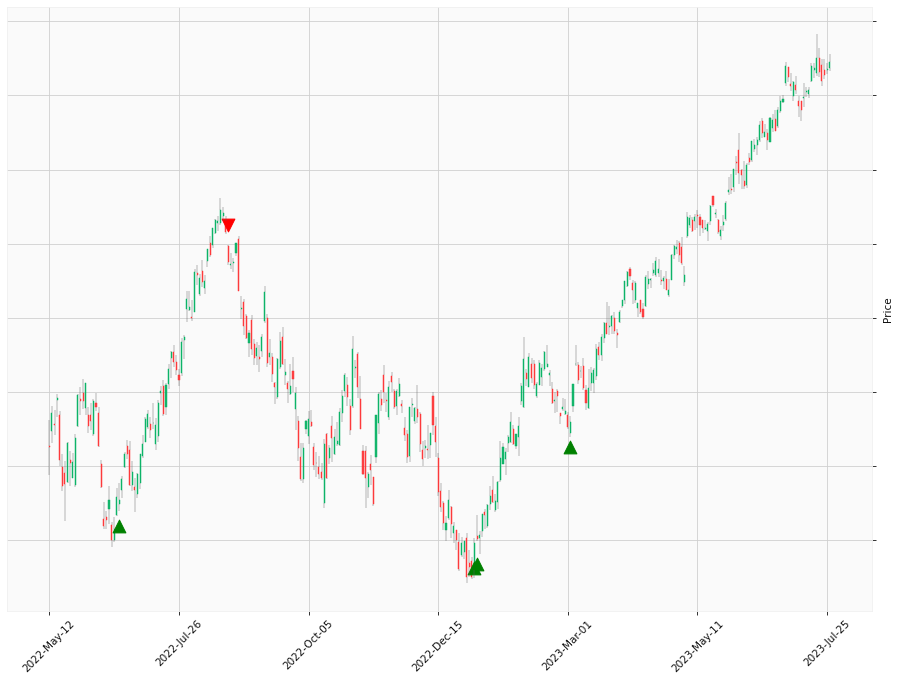
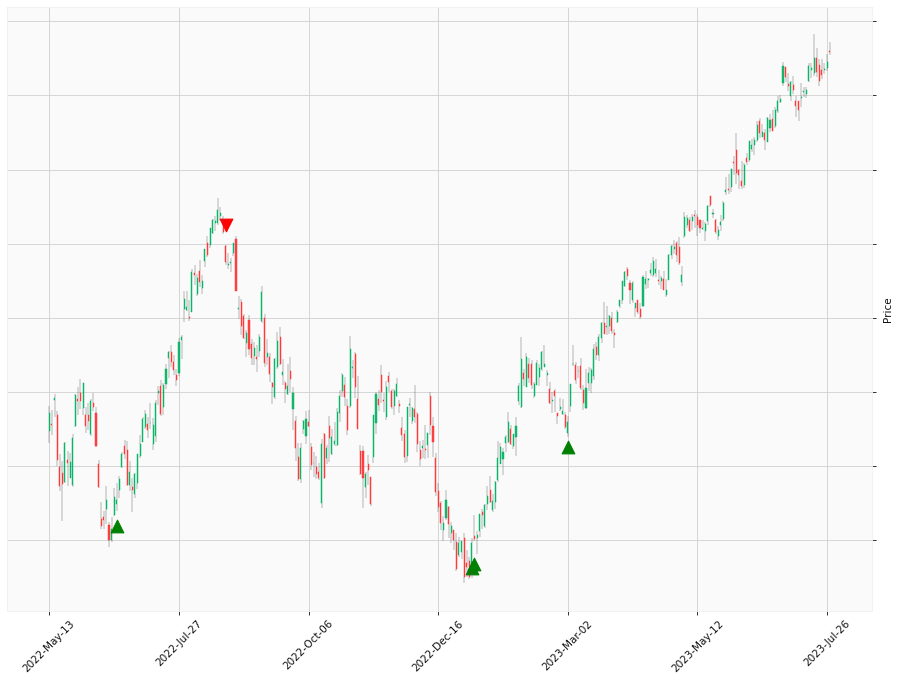
See https://github.com/HappyLabz/HappyLabz_v1/commit/a32d4daa571c89d06b2637af87136d21fd2545b4 from refs/heads/main

diff --git a/TSLA.md b/TSLA.md
@@ -104,9 +104,9 @@
         <td>9</td>
         <td>Short</td>
         <td>Jun 23 2023 Close</td>
-        <td>3.06 %</td>
-        <td>217.66 %</td>
-        <td>475.69 %</td>
+        <td>3.67 %</td>
+        <td>217.05 %</td>
+        <td>472.06 %</td>
     </tr>
     
 </table>
@@ -122,23 +122,23 @@
     <tbody>
         <tr>
             <td>TSLA (Buy and Hold)</td>
-            <td>2022-05-26 Close <b>-</b> 2023-07-26 Close</td>
-            <td>12.10 %</td>
+            <td>2022-05-26 Close <b>-</b> 2023-07-27 Close</td>
+            <td>12.77 %</td>
         </tr>
         <tr>
             <td>TSLA (HLT Cumulative % Gain)</td>
-            <td>2022-05-26 Close <b>-</b> 2023-07-26 Close</td>
-            <td>217.66 %</td>
+            <td>2022-05-26 Close <b>-</b> 2023-07-27 Close</td>
+            <td>217.05 %</td>
         </tr>
         <tr>
             <td>TSLA (HLT Reinvested % Gain)</td>
-            <td>2022-05-26 Close <b>-</b> 2023-07-26 Close</td>
-            <td>475.69 %</td>
+            <td>2022-05-26 Close <b>-</b> 2023-07-27 Close</td>
+            <td>472.06 %</td>
         </tr>
         <tr>
             <td>S&P 500 (Buy and Hold)</td>
-            <td>2022-05-26 Close <b>-</b> 2023-07-26 Close</td>
-            <td>12.39 %</td>
+            <td>2022-05-26 Close <b>-</b> 2023-07-27 Close</td>
+            <td>12.88 %</td>
         </tr>
     </tbody>
 </table>

diff --git a/AAPL.md b/AAPL.md
@@ -72,9 +72,9 @@
         <td>5</td>
         <td>Long</td>
         <td>Mar 02 2023 Close</td>
-        <td>33.32 %</td>
-        <td>92.29 %</td>
-        <td>127.87 %</td>
+        <td>34.23 %</td>
+        <td>93.20 %</td>
+        <td>129.44 %</td>
     </tr>
     
 </table>
@@ -90,23 +90,23 @@
     <tbody>
         <tr>
             <td>AAPL (Buy and Hold)</td>
-            <td>2022-06-22 Close <b>-</b> 2023-07-26 Close</td>
-            <td>43.72 %</td>
+            <td>2022-06-22 Close <b>-</b> 2023-07-27 Close</td>
+            <td>44.71 %</td>
         </tr>
         <tr>
             <td>AAPL (HLT Cumulative % Gain)</td>
-            <td>2022-06-22 Close <b>-</b> 2023-07-26 Close</td>
-            <td>92.29 %</td>
+            <td>2022-06-22 Close <b>-</b> 2023-07-27 Close</td>
+            <td>93.20 %</td>
         </tr>
         <tr>
             <td>AAPL (HLT Reinvested % Gain)</td>
-            <td>2022-06-22 Close <b>-</b> 2023-07-26 Close</td>
-            <td>127.87 %</td>
+            <td>2022-06-22 Close <b>-</b> 2023-07-27 Close</td>
+            <td>129.44 %</td>
         </tr>
         <tr>
             <td>S&P 500 (Buy and Hold)</td>
-            <td>2022-06-22 Close <b>-</b> 2023-07-26 Close</td>
-            <td>21.67 %</td>
+            <td>2022-06-22 Close <b>-</b> 2023-07-27 Close</td>
+            <td>22.21 %</td>
         </tr>
     </tbody>
 </table>

diff --git a/SPY.md b/SPY.md
@@ -144,9 +144,9 @@
         <td>14</td>
         <td>Short</td>
         <td>Jul 19 2023 Close</td>
-        <td>0.07 %</td>
-        <td>64.05 %</td>
-        <td>82.66 %</td>
+        <td>0.51 %</td>
+        <td>63.61 %</td>
+        <td>81.85 %</td>
     </tr>
     
 </table>
@@ -162,23 +162,23 @@
     <tbody>
         <tr>
             <td>SPY (Buy and Hold)</td>
-            <td>2022-06-22 Close <b>-</b> 2023-07-26 Close</td>
-            <td>21.67 %</td>
+            <td>2022-06-22 Close <b>-</b> 2023-07-27 Close</td>
+            <td>22.21 %</td>
         </tr>
         <tr>
             <td>SPY (HLT Cumulative % Gain)</td>
-            <td>2022-06-22 Close <b>-</b> 2023-07-26 Close</td>
-            <td>64.05 %</td>
+            <td>2022-06-22 Close <b>-</b> 2023-07-27 Close</td>
+            <td>63.61 %</td>
         </tr>
         <tr>
             <td>SPY (HLT Reinvested % Gain)</td>
-            <td>2022-06-22 Close <b>-</b> 2023-07-26 Close</td>
-            <td>82.66 %</td>
+            <td>2022-06-22 Close <b>-</b> 2023-07-27 Close</td>
+            <td>81.85 %</td>
         </tr>
         <tr>
             <td>S&P 500 (Buy and Hold)</td>
-            <td>2022-06-22 Close <b>-</b> 2023-07-26 Close</td>
-            <td>21.67 %</td>
+            <td>2022-06-22 Close <b>-</b> 2023-07-27 Close</td>
+            <td>22.21 %</td>
         </tr>
     </tbody>
 </table>
